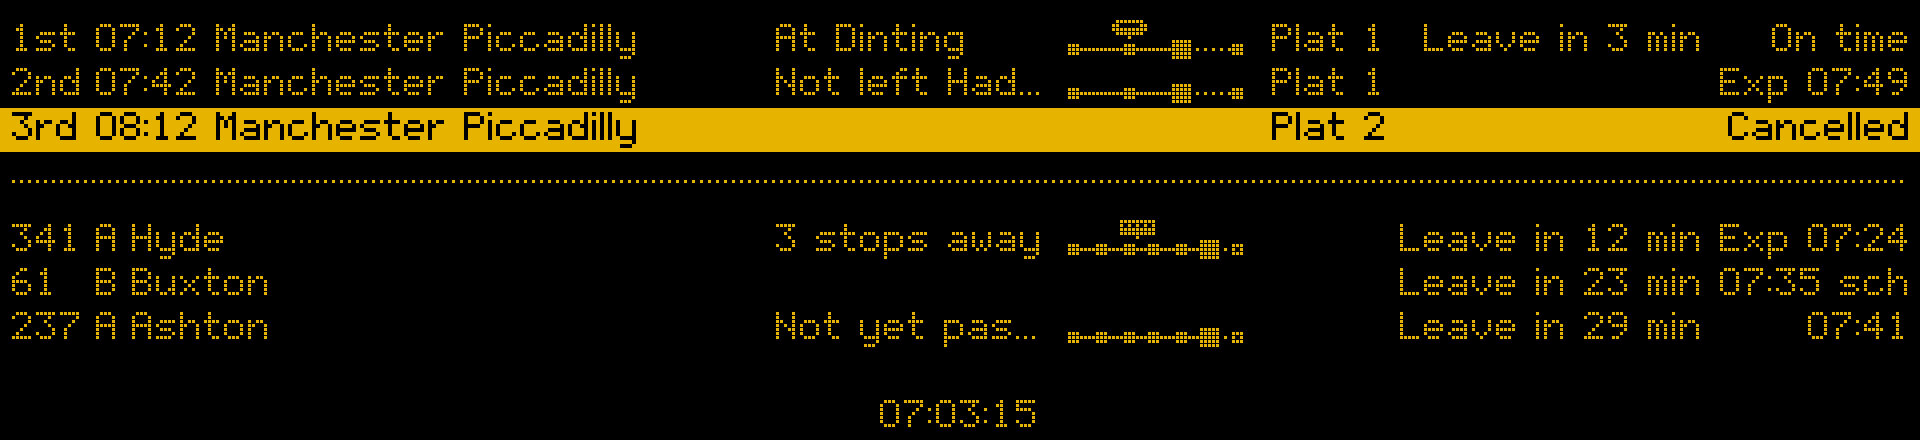
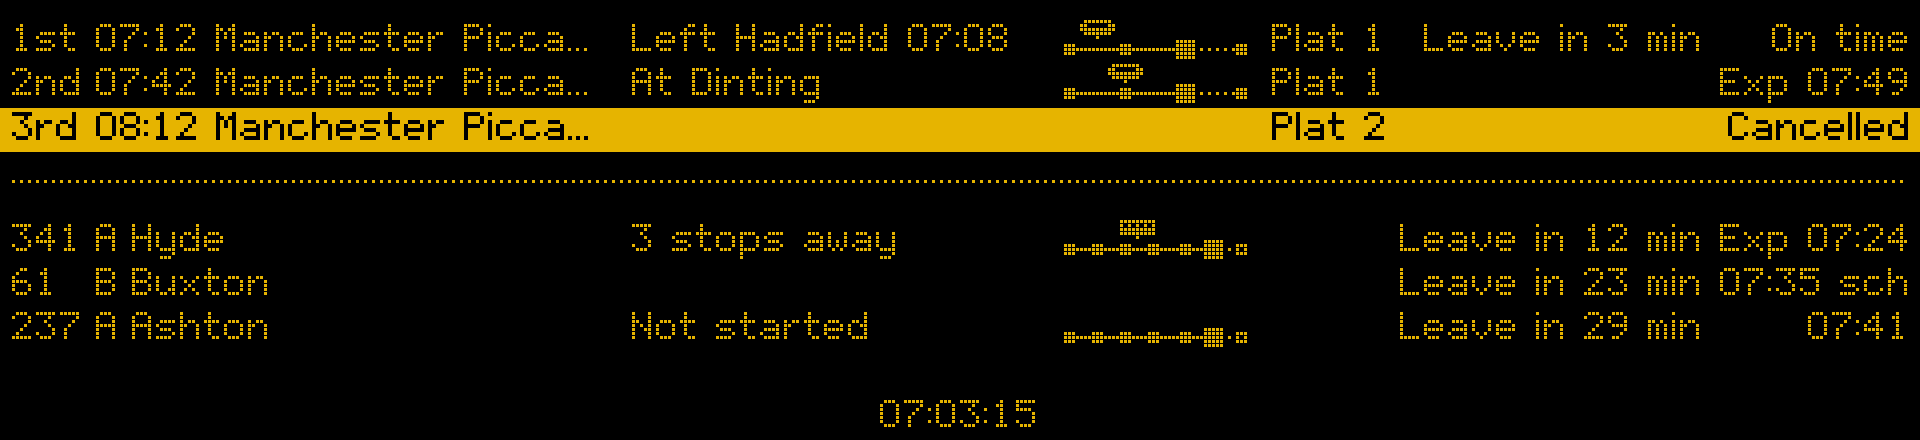
fix(board): give the where words a screen's spare width
The words carry the meaning, but a fixed 66-dot column cut them short
("Not left Had…") with room to spare on the bar screen. The column now
takes the room a full row leaves beside "Manchester Piccadilly", the
little line, a bus's leave time and a status, from "3 stops away" up to
twenty letters, the length the where words are meant to keep to. It is
worked out from the panel's width alone, so it doesn't shift as the words
change. On the 7.9" screen that keeps "Manchester Piccadilly" whole; on
the bar screen twenty letters fit and the destination gives way first.

Two tests change with this: their long where words now fit on the bar
screen, so they use longer ones, and the bar screen's destination is cut
to make room. The demo's sample words are the short kind the data gives.

diff --git a/tests/board/test_sign.py b/tests/board/test_sign.py
@@ -607,7 +607,7 @@ from departureboard.board.panel import (  # noqa: E402
     PLATFORM_COLUMN_MIN_WIDTH,
     STRIP_COLUMN_MIN_WIDTH,
 )
-from departureboard.board.sign import STRIP_WIDTH, WHERE_WIDTH, StripMark, strip_dots  # noqa: E402
+from departureboard.board.sign import STRIP_WIDTH, StripMark, strip_dots, where_width  # noqa: E402
 from departureboard.core.model import Strip  # noqa: E402
 
 CLOCK = "07:03:15"
@@ -615,7 +615,7 @@ CLOCK = "07:03:15"
 STRIP_PANELS = [HDMI_1280X400, HDMI_1920X440]
 SCREEN_TRAINS = [
     dataclasses.replace(TRAINS[0], platform="Plat 1", strip=Strip("At Dinting", 4, 2, 1.0)),
-    dataclasses.replace(TRAINS[1], platform="Plat 1", strip=Strip("Not left Hadfield yet", 4, 2, None)),
+    dataclasses.replace(TRAINS[1], platform="Plat 1", strip=Strip("Not yet left Hadfield sidings", 4, 2, None)),
     dataclasses.replace(TRAINS[2], platform="Plat 2"),  # cancelled: nowhere to be
 ]
 SCREEN_BUSES = [
@@ -648,8 +648,10 @@ def test_only_the_bar_screen_puts_a_trains_leave_time_on_its_row():
 
 def test_on_the_bar_screen_each_train_is_one_line_with_its_leave_time_in_a_column():
     items = sign_layout(screen(), *dots(HDMI_1920X440)).items
-    first = line_of(items, "1st")
-    assert texts(first) == ["1st", "07:12", "Manchester Piccadilly", "At Dinting", "Plat 1", "Leave in 3 min", "On time"]
+    first = texts(line_of(items, "1st"))
+    # The destination gives way to twenty letters of where words.
+    assert first[2].startswith("Manchester Picc")
+    assert first[:2] + first[3:] == ["1st", "07:12", "At Dinting", "Plat 1", "Leave in 3 min", "On time"]
     # Nothing between the 1st and the 2nd: the rows are a line apart.
     assert find(items, "2nd").y - find(items, "1st").y == 11
 
@@ -699,7 +701,7 @@ def test_wide_screens_say_where_each_train_and_bus_is(panel):
     assert "At Dinting" in texts(line_of(items, "1st"))
     assert {(m.y, m.strip.where, m.train) for m in layout.strips} == {
         (find(items, "1st").y, "At Dinting", True),
-        (find(items, "2nd").y, "Not left Hadfield yet", True),
+        (find(items, "2nd").y, "Not yet left Hadfield sidings", True),
         (find(items, "341").y, "3 stops away", False),
         (find(items, "237").y, "1 stop away", False),
     }
@@ -736,9 +738,9 @@ def test_a_rows_columns_never_overlap(panel, leave_for):
 @pytest.mark.parametrize("panel", STRIP_PANELS, ids=lambda p: p.name)
 def test_long_where_words_are_cut_to_their_column(panel):
     items = sign_layout(screen(), *dots(panel)).items
-    where = next(i for i in items if i.text.startswith("Not left"))
+    where = next(i for i in items if i.text.startswith("Not yet left"))
     assert where.text.endswith("…")
-    assert FONT.getlength(where.text) <= WHERE_WIDTH
+    assert FONT.getlength(where.text) <= where_width(dots(panel)[0])
 
 
 @pytest.mark.parametrize("panel", STRIP_PANELS, ids=lambda p: p.name)
@@ -753,14 +755,14 @@ def test_the_destination_gives_way_to_the_strip(panel):
 
 @pytest.mark.parametrize("panel", STRIP_PANELS, ids=lambda p: p.name)
 def test_every_destination_keeps_room_beside_the_strip(panel):
-    # The threshold's promise: a long destination keeps about 18 letters.
+    # A long destination keeps about 16 letters, giving way to the where words.
     long = "Stepping Hill Hospital via Marple and Romiley"
     trains = [dataclasses.replace(r, middle=long) for r in SCREEN_TRAINS]
     buses = [dataclasses.replace(r, middle=long) for r in SCREEN_BUSES]
     items = sign_layout(screen(trains, buses), *dots(panel)).items
     shown = [i for i in items if i.text.startswith("Stepping")]
     assert len(shown) == 6
-    assert all(FONT.getlength(i.text) >= 95 for i in shown)
+    assert all(FONT.getlength(i.text) >= 85 for i in shown)
 
 
 def test_the_strip_threshold_lets_in_both_screens_and_not_the_e_paper():
@@ -868,3 +870,42 @@ def test_the_route_page_fits_the_bar_screen(bus_at):
     assert find(layout.items, "Leave in 6 min").y + 9 < road - 8
     assert all(find(layout.items, name).y + 9 <= road - 2 for name in NAMES[::2])
     assert render_route_sign(route(bus_at), PALETTE, HDMI_1920X440).size == HDMI_1920X440.size
+
+
+TWENTY = "Leaving Hadfield now"  # as long as the where words are meant to be
+
+
+def test_twenty_letters_of_where_fit_uncut_on_the_bar_screen():
+    assert len(TWENTY) == 20
+    rows = [dataclasses.replace(SCREEN_TRAINS[0], strip=Strip(TWENTY, 4, 2, 1.0)), *SCREEN_TRAINS[1:]]
+    buses = [dataclasses.replace(SCREEN_BUSES[0], strip=Strip(TWENTY, 7, 5, 2.4)), *SCREEN_BUSES[1:]]
+    items = sign_layout(screen(rows, buses), *dots(HDMI_1920X440)).items
+    assert texts(items).count(TWENTY) == 2
+
+
+@pytest.mark.parametrize("panel", STRIP_PANELS, ids=lambda p: p.name)
+def test_the_where_column_is_as_wide_whatever_the_words(panel):
+    width, height = dots(panel)
+    short = [dataclasses.replace(r, strip=Strip("At Dinting", 4, 2, 1.0)) for r in SCREEN_TRAINS]
+    for view in (screen(), screen(short)):
+        layout = sign_layout(view, width, height)
+        for mark in layout.strips:
+            where = max((i for i in layout.items if i.y == mark.y and i.x < mark.x), key=lambda i: i.x)
+            assert mark.x - where.x == where_width(width) + 5
+
+
+def test_the_where_column_takes_the_spare_width_on_wider_screens():
+    narrow, wide = where_width(dots(HDMI_1280X400)[0]), where_width(dots(HDMI_1920X440)[0])
+    assert FONT.getlength("3 stops away") <= narrow < wide
+    assert FONT.getlength(TWENTY) <= wide
+
+
+@pytest.mark.parametrize("panel", STRIP_PANELS, ids=lambda p: p.name)
+def test_manchester_piccadilly_stays_whole_on_the_7_9_inch_screen_with_strips(panel):
+    items = sign_layout(screen(), *dots(panel)).items
+    shown = [i.text for i in items if i.text.startswith("Manchester")]
+    if panel is HDMI_1280X400:
+        assert shown == ["Manchester Piccadilly"] * 3
+    else:
+        # The bar screen gives the where words their twenty letters first.
+        assert all(t.startswith("Manchester Picc") for t in shown)

diff --git a/tests/board/test_render.py b/tests/board/test_render.py
@@ -886,7 +886,7 @@ def test_the_setup_page_signature_follows_its_words():
 # Where each train or bus is, on a screen wide enough; and the bar screen's third bus.
 
 from departureboard.board.panel import STRIP_COLUMN_MIN_WIDTH  # noqa: E402
-from departureboard.board.render import STRIP_WIDTH, WHERE_WIDTH, row_limits, where_column  # noqa: E402
+from departureboard.board.render import STRIP_WIDTH, row_limits, where_column, where_width  # noqa: E402
 from departureboard.core.model import Strip  # noqa: E402
 
 CLOCK = "07:03:15"
@@ -894,7 +894,7 @@ STRIP_PANELS = [HDMI_1280X400, HDMI_1920X440]
 STRIP_TRAINS = (
     Row("07:12", "Manchester Piccadilly", "On time", platform="Plat 1", strip=Strip("At Dinting", 4, 2, 1.0)),
     Row("07:42", "Manchester Piccadilly", "Exp 07:49", Style.ALERT, platform="Plat 1",
-        strip=Strip("Not left Hadfield yet", 4, 2, None)),
+        strip=Strip("Not yet left Hadfield sidings", 4, 2, None)),
     Row("08:12", "Manchester Piccadilly", "Cancelled", Style.INVERTED, platform="Plat 2"),
 )
 STRIP_BUSES = (
@@ -927,12 +927,12 @@ def test_wide_screens_say_where_each_train_and_bus_is_in_a_column(panel):
     assert where_x is not None
     shown = {row.left: layout.where for row, layout in layouts}
     assert shown["07:12"] == "At Dinting" and shown["341"] == "3 stops away" and shown["237"] == "1 stop away"
-    assert shown["07:42"].startswith("Not left") and shown["07:42"].endswith("…")
+    assert shown["07:42"].startswith("Not yet left") and shown["07:42"].endswith("…")
     for row, layout in layouts:
         if row.strip:
             assert layout.where_x == where_x
-            assert drawn_length(fonts.small, layout.where) <= WHERE_WIDTH * s
-            assert layout.strip_x == where_x + (WHERE_WIDTH + 6) * s
+            assert drawn_length(fonts.small, layout.where) <= where_width(fonts, panel.width, s)
+            assert layout.strip_x == where_x + where_width(fonts, panel.width, s) + 6 * s
         else:
             # Left blank, but the destination still stops where the others' do.
             assert layout.where is None and layout.strip_x is None
@@ -943,7 +943,7 @@ def test_a_rows_columns_never_overlap_in_the_plain_look(panel):
     layouts, where_x, fonts, s = strip_layouts(panel)
     for _, layout in layouts:
         assert layout.middle_x + drawn_length(fonts.regular, layout.middle) + 6 * s <= where_x
-        strip_end = where_x + (WHERE_WIDTH + 6 + STRIP_WIDTH) * s
+        strip_end = where_x + where_width(fonts, panel.width, s) + (6 + STRIP_WIDTH) * s
         for later in (layout.platform_x, layout.leave_x, layout.right_x):
             if later is not None:
                 assert strip_end + 6 * s <= later
@@ -990,9 +990,9 @@ def bus_rows_top(panel):
 
 @pytest.mark.parametrize("panel", STRIP_PANELS, ids=lambda p: p.name)
 def test_the_little_line_is_drawn_with_the_vehicle_where_it_is(panel):
-    _, where_x, _, s = strip_layouts(panel)
+    _, where_x, fonts, s = strip_layouts(panel)
     top, row_h = bus_rows_top(panel)
-    strip_x = where_x + (WHERE_WIDTH + 6) * s
+    strip_x = where_x + where_width(fonts, panel.width, s) + 6 * s
     right = strip_x + STRIP_WIDTH * s
     drawn = render(on_screen(), PALETTE, panel)
     assert ink_in(drawn, (strip_x, top, right, top + row_h)) > 0
@@ -1006,9 +1006,9 @@ def test_the_little_line_is_drawn_with_the_vehicle_where_it_is(panel):
 
 @pytest.mark.parametrize("panel", STRIP_PANELS, ids=lambda p: p.name)
 def test_your_stop_is_in_the_accent_colour(panel):
-    _, where_x, _, s = strip_layouts(panel)
+    _, where_x, fonts, s = strip_layouts(panel)
     top, row_h = bus_rows_top(panel)
-    strip_x = where_x + (WHERE_WIDTH + 6) * s
+    strip_x = where_x + where_width(fonts, panel.width, s) + 6 * s
     drawn = render(on_screen(), PALETTE, panel)
     assert ink_in(drawn, (strip_x, top, strip_x + STRIP_WIDTH * s, top + row_h), PALETTE.accent) > 0
 
@@ -1022,3 +1022,23 @@ def test_the_bar_screen_shows_three_buses_in_the_plain_look():
     top, row_h = bus_rows_top(HDMI_1920X440)
     assert top + 3 * row_h <= HDMI_1920X440.height
     assert ink_in(image, (0, top + 2 * row_h, 200, top + 3 * row_h)) > 0  # the 237
+
+
+
+def test_twenty_letters_of_where_fit_uncut_on_the_bar_screen_in_the_plain_look():
+    twenty = "Leaving Hadfield now"
+    trains = (dataclasses.replace(STRIP_TRAINS[0], strip=Strip(twenty, 4, 2, 1.0)), *STRIP_TRAINS[1:])
+    buses = (dataclasses.replace(STRIP_BUSES[0], strip=Strip(twenty, 7, 5, 2.4)), *STRIP_BUSES[1:])
+    layouts, _, _, _ = strip_layouts(HDMI_1920X440, trains, buses)
+    assert [layout.where for _, layout in layouts].count(twenty) == 2
+
+
+def test_the_plain_where_column_is_as_wide_whatever_the_words_and_wider_on_the_bar():
+    fonts = load_fonts(3)
+    narrow, wide = where_width(fonts, HDMI_1280X400.width, 3), where_width(fonts, HDMI_1920X440.width, 3)
+    assert drawn_length(fonts.small, "3 stops away") <= narrow < wide
+    short = tuple(dataclasses.replace(r, strip=Strip("At Dinting", 4, 2, 1.0)) for r in STRIP_TRAINS)
+    for panel in STRIP_PANELS:
+        a = strip_layouts(panel)[0][0][1]
+        b = strip_layouts(panel, short)[0][0][1]
+        assert a.strip_x - a.where_x == b.strip_x - b.where_x

diff --git a/src/departureboard/board/sign.py b/src/departureboard/board/sign.py
@@ -49,13 +49,30 @@ def item_size(item: Item) -> tuple[int, int]:
     return _FONT.getlength(item.text), GLYPH_H
 
 
-# On a screen wide enough, where each train or bus is: the words, cut to fit
-# WHERE_WIDTH ("3 stops away" fits), then a little line of its stops.
-WHERE_WIDTH = 66
+# On a screen wide enough, where each train or bus is: the words, then a
+# little line of its stops.
 STRIP_WIDTH = 48  # eight stops, six dots apart
 # Twice the usual gap after the destination, so it and the where words don't
 # run together into one name.
 _WHERE_GAP = 2 * _COL_GAP
+# The where words' column: at least "3 stops away", at most twenty letters
+# ("Left Hadfield 07:08"), which is as long as they are meant to be.
+_WHERE_LEAST = _FONT.getlength("3 stops away")
+_WHERE_MOST = _FONT.getlength("Leaving Hadfield now")
+# What the rest of a full row needs beside the where words: ordinal and time,
+# "Manchester Piccadilly" whole, the little line, a bus's leave time and a status.
+_REST_OF_ROW = (
+    MARGIN + _FONT.getlength("4th") + _COL_GAP + _FONT.getlength("00:00") + _COL_GAP
+    + _FONT.getlength("Manchester Piccadilly") + _WHERE_GAP + _COL_GAP + STRIP_WIDTH + _COL_GAP
+    + _FONT.getlength("Leave in 00 min") + _COL_GAP + _FONT.getlength("Exp 00:00") + MARGIN
+)
+
+
+def where_width(width: int) -> int:
+    """How wide the where words' column is on a board `width` dots across: the
+    room a full row leaves, from "3 stops away" to twenty letters. It is
+    worked out from the width alone, so it stays put as the words change."""
+    return max(_WHERE_LEAST, min(_WHERE_MOST, width - _REST_OF_ROW))
 
 
 @dataclass(frozen=True)
@@ -136,16 +153,17 @@ def _where_column(view: BoardView, trains: _Columns, buses: _Columns, width: int
     so it stays put as the words change."""
     if view.clock is None or width < STRIP_COLUMN_MIN_WIDTH:
         return None
-    return min(trains.end, buses.end) - _COL_GAP - STRIP_WIDTH - _COL_GAP - WHERE_WIDTH
+    return min(trains.end, buses.end) - _COL_GAP - STRIP_WIDTH - _COL_GAP - where_width(width)
 
 
-def _add_strip(layout: SignLayout, row: Row, where_x: float, y: int, train: bool, inverted: bool) -> None:
+def _add_strip(layout: SignLayout, row: Row, where_x: float, y: int, width: int, train: bool, inverted: bool) -> None:
     # A row without one leaves the space blank.
     if row.strip is None:
         return
+    words_w = where_width(width)
     if row.strip.where:
-        layout.add(where_x, y, fit_text(row.strip.where, _FONT, WHERE_WIDTH), inverted)
-    layout.strips.append(StripMark(where_x + WHERE_WIDTH + _COL_GAP, y, row.strip, train, inverted))
+        layout.add(where_x, y, fit_text(row.strip.where, _FONT, words_w), inverted)
+    layout.strips.append(StripMark(where_x + words_w + _COL_GAP, y, row.strip, train, inverted))
 
 
 def _trains(layout: SignLayout, section: Section, y: int, width: int, columns: _Columns,
@@ -172,7 +190,7 @@ def _trains(layout: SignLayout, section: Section, y: int, width: int, columns: _
         layout.add(time_x, y, row.left, inverted)
         layout.add(dest_x, y, fit_text(row.middle, _FONT, dest_end - dest_x), inverted)
         if where_x is not None:
-            _add_strip(layout, row, where_x, y, True, inverted)
+            _add_strip(layout, row, where_x, y, width, True, inverted)
         if columns.platform_x is not None and row.platform:
             layout.add(columns.platform_x, y, row.platform, inverted)
         if columns.leave_x is not None and section.leave and index == leave_for:
@@ -212,7 +230,7 @@ def _buses(layout: SignLayout, section: Section, y: int, bottom: int, width: int
             layout.add(stop_x, y, row.stop, inverted)
         layout.add(dest_x, y, fit_text(row.middle, _FONT, dest_end - dest_x), inverted)
         if where_x is not None:
-            _add_strip(layout, row, where_x, y, False, inverted)
+            _add_strip(layout, row, where_x, y, width, False, inverted)
         if row.leave and columns.leave_x is not None:
             layout.add(columns.leave_x, y, row.leave, inverted)
         layout.add(status_x, y, row.right, inverted)
@@ -326,7 +344,7 @@ def strip_dots(mark: StripMark) -> set[tuple[int, int]]:
     words beside it say where the vehicle is."""
     strip = mark.strip
     line_y = mark.y + _STRIP_LINE
-    left, right = round(mark.x) + 3, round(mark.x) + mark.width - 4  # room for your stop at either end
+    left, right = round(mark.x) + 2, round(mark.x) + mark.width - 3  # room for your stop at either end
     step = (right - left) / (strip.stops - 1)
     xs = [round(left + i * step) for i in range(strip.stops)]
     yours = xs[strip.yours]

diff --git a/src/departureboard/board/render.py b/src/departureboard/board/render.py
@@ -108,9 +108,8 @@ class RowLayout:
 
 
 _COL_GAP = 6
-# On a screen wide enough, in pHAT pixels: the where words in the small type
-# ("3 stops away" fits), then a little line of stops.
-WHERE_WIDTH = 60
+# On a screen wide enough, in pHAT pixels: the where words in the small type,
+# then a little line of stops.
 STRIP_WIDTH = 48
 
 
@@ -159,8 +158,9 @@ def row_layout(
         # Twice the gap, so the destination and the where words don't run together.
         middle_end = where_x - 2 * gap
         if row.strip is not None:
-            where = fit_text(row.strip.where, fonts.small, WHERE_WIDTH * scale, partial(drawn_length, fonts.small))
-            strip_x = where_x + WHERE_WIDTH * scale + gap
+            words_w = where_width(fonts, width, scale)
+            where = fit_text(row.strip.where, fonts.small, words_w, partial(drawn_length, fonts.small))
+            strip_x = where_x + words_w + gap
     return RowLayout(
         # Measured as drawn, like the right-aligned text, so a cut destination
         # doesn't run into the status.
@@ -198,6 +198,23 @@ def leave_column(rows, fonts: Fonts, width: int, scale: int) -> float | None:
     return width - _PAD * scale - right_w - _COL_GAP * scale - leave_w
 
 
+def where_width(fonts: Fonts, width: int, scale: int) -> float:
+    """How wide the where words' column is, in panel pixels, on a board `width`
+    across: the room a full row leaves beside "Manchester Piccadilly" whole,
+    the little line, a bus's leave time and a status, from "3 stops away" to
+    twenty letters ("Left Hadfield 07:08"), as long as they are meant to be.
+    Worked out from the width alone, so it stays put as the words change."""
+    pad, gap = _PAD * scale, _COL_GAP * scale
+    rest = (
+        pad + left_column_width(fonts, scale) + drawn_length(fonts.regular, "Manchester Piccadilly")
+        + 3 * gap + STRIP_WIDTH * scale + gap + drawn_length(fonts.small, "Leave in 00 min") + gap
+        + drawn_length(fonts.bold, "Exp 00:00") + pad
+    )
+    least = drawn_length(fonts.small, "3 stops away")
+    most = drawn_length(fonts.small, "Leaving Hadfield now")
+    return max(least, min(most, width - rest))
+
+
 def where_column(sections, fonts: Fonts, width: int, scale: int, live: bool) -> float | None:
     """Where the where words start, with the little lines after them: one
     column down the board, clear of every section's platform, leave and
@@ -211,7 +228,7 @@ def where_column(sections, fonts: Fonts, width: int, scale: int, live: bool) -> 
         ends.append(width - _PAD * scale - max(drawn_length(fonts.bold, r.right) for r in rows))
         ends += [x for x in (platform_column(rows, fonts, width, scale), leave_column(rows, fonts, width, scale))
                  if x is not None]
-    return min(ends) - (_COL_GAP * 2 + STRIP_WIDTH + WHERE_WIDTH) * scale
+    return min(ends) - (_COL_GAP * 2 + STRIP_WIDTH) * scale - where_width(fonts, width, scale)
 
 
 def draw_strip(draw: ImageDraw.ImageDraw, strip: Strip, train: bool, x: float, y: int, scale: int, row_h: int,

diff --git a/src/departureboard/board/panel.py b/src/departureboard/board/panel.py
@@ -18,12 +18,15 @@ PLATFORM_COLUMN_MIN_WIDTH = 300
 # Piccadilly" is 105), beside them, the platform, a bus's "Leave in 12 min" and
 # the status; at 400 a train's would be down to 80. The 7.9" screen's 426 is
 # in; the 10.85" e-paper's 340 is not, and e-paper never shows them anyway.
+# A wider screen gives its spare room to the where words first, up to twenty
+# letters, so they aren't cut short when there's room (see where_width).
 STRIP_COLUMN_MIN_WIDTH = 420
 
 # A sign board at least this wide gives a train's "Leave in 3 min" a column on
-# its row rather than a line of its own under it: one line a row. As for the
-# strips, a destination keeps about 100 dots from 460; on the 7.9" screen's
-# 426 it would keep 74, about 13 letters, so only the bar screen's 480 does it.
+# its row rather than a line of its own under it: one line a row. On the bar
+# screen's 480 a destination still keeps 94 dots, 17 letters, beside twenty
+# letters of where words; on the 7.9" screen's 426 it would keep 64, about 11,
+# so only the bar screen does it.
 LEAVE_COLUMN_MIN_WIDTH = 460
 
 

diff --git a/src/departureboard/cli/dev.py b/src/departureboard/cli/dev.py
@@ -189,12 +189,12 @@ def demo_command(args) -> int:
         Departure("bus", "237", "Ashton", "07:41", None, Status.ON_TIME, stop="A"),
     ]
     # Where each is, as a wide screen shows it. The cancelled train and the 61,
-    # with no live position, have none; the 237 hasn't been seen yet.
+    # with no live position, have none; the 237 hasn't started its journey yet.
     strips = {
-        strip_key(trains[0]): Strip("At Dinting", 4, 2, 1.0),
-        strip_key(trains[1]): Strip("Not left Hadfield yet", 4, 2, None),
+        strip_key(trains[0]): Strip("Left Hadfield 07:08", 4, 2, 0.5),
+        strip_key(trains[1]): Strip("At Dinting", 4, 2, 1.0),
         strip_key(buses[0]): Strip("3 stops away", 7, 5, 2.4),
-        strip_key(buses[2]): Strip("Not yet past Hollingworth", 7, 5, None),
+        strip_key(buses[2]): Strip("Not started", 7, 5, None),
     }
     theme = theme_named(args.theme)
     display = PngDisplay(args.png, args.accent or theme.accent, DISPLAY_PANELS[args.display])
